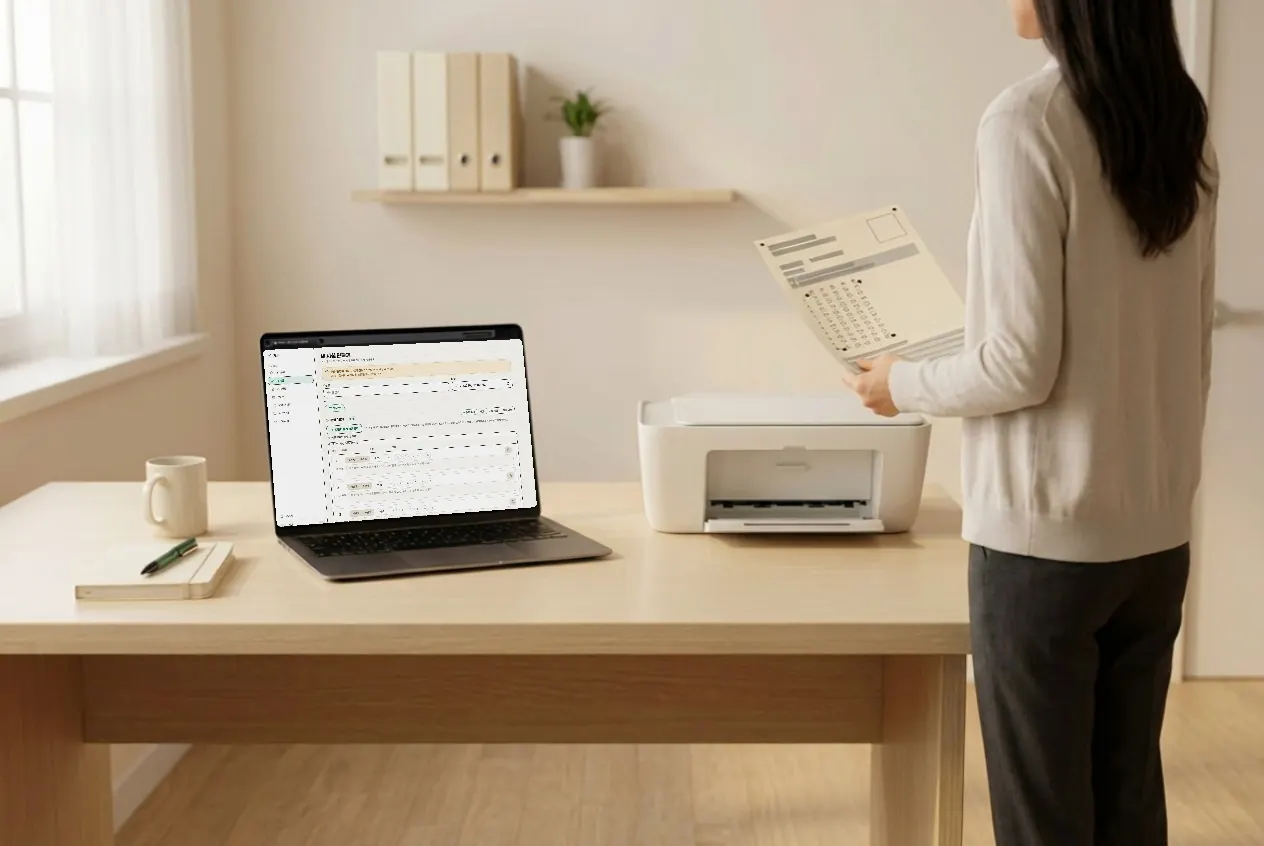
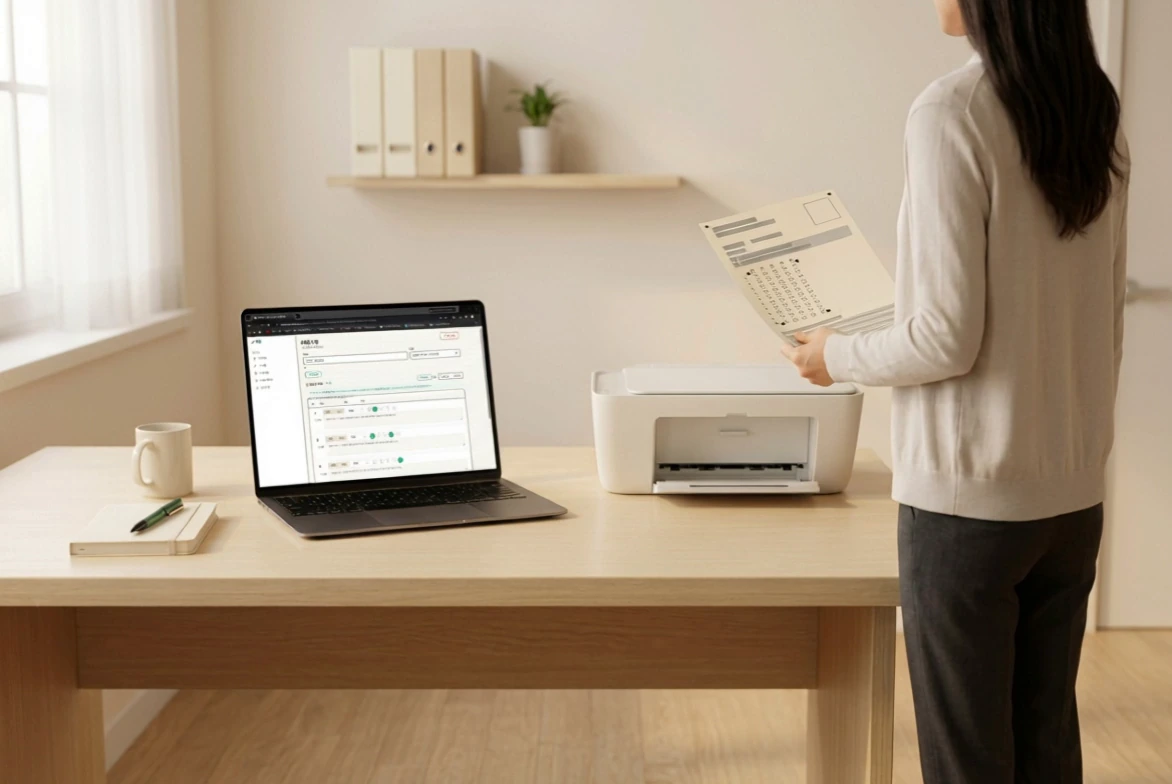
합성 전부 제거(사장님: 이미지·영상 안엔 아무것도 넣지 않는다 · 텍스트만) — 1 장면 프레임 원본 해상도·고화질(q92) · 2·4·5 장면 원본 이미지 · 마킹·폰 영상 겹판 삭제
Claude-Session: https://claude.ai/code/session_017AZFynALDViCu6x73EUba5

Changed region(s): [[0.1843, 0.398, 0.43, 0.6429]]

diff --git a/chaeck/index.html b/chaeck/index.html
@@ -224,9 +224,9 @@ html.nojs .story{height:auto}html.nojs .stage{position:static}html.nojs .step{po
     <div class="a-photo actor"><img src="/chaeck/img/ai/H1.webp" alt="학생이 QR 답안지를 폰으로 찍는 순간"></div>
     <div class="a-desk actor" aria-hidden="true"><img src="/chaeck/img/ai/H1.webp" alt=""></div>
     <div class="a-bg1 actor ph" aria-hidden="true"><img class="seq" data-seq="/chaeck/img/ai/seq1/f{i}.webp" data-seq-n="22" src="/chaeck/img/ai/seq1/f00.webp" alt=""></div>
-    <div class="a-bg2 actor ph" aria-hidden="true" style="--fill:0"><img src="/chaeck/img/ai/S2.webp" alt=""><svg class="ov" viewBox="0 0 1842 2700" style="transform:matrix3d(0.318268,0.0725958,0,1.98109e-05,-0.164956,0.169501,0,-7.50801e-05,0,0,1,0,557,114,0,1)"><circle class="f" style="--i:0" cx="529" cy="1157" r="19"/><circle class="f" style="--i:1" cx="410" cy="1241" r="19"/><circle class="f" style="--i:2" cx="649" cy="1325" r="19"/><circle class="f" style="--i:3" cx="290" cy="1409" r="19"/><circle class="f" style="--i:4" cx="767" cy="1493" r="19"/><circle class="f" style="--i:5" cx="529" cy="1576" r="19"/><circle class="f" style="--i:6" cx="410" cy="1660" r="19"/><circle class="f" style="--i:7" cx="649" cy="1744" r="19"/><circle class="f" style="--i:8" cx="767" cy="1828" r="19"/><circle class="f" style="--i:9" cx="290" cy="1912" r="19"/></svg></div>
+    <div class="a-bg2 actor ph" aria-hidden="true" style="--fill:0"><img src="/chaeck/img/ai/S2.webp" alt=""></div>
     <div class="a-bg4 actor ph" aria-hidden="true"><img src="/chaeck/img/ai/S4.webp" alt=""></div>
-    <div class="a-bg5 actor ph" aria-hidden="true"><img src="/chaeck/img/ai/S5.webp" alt=""><div class="vscr" data-scene-video="5" style="transform:matrix3d(0.204724,-0.0705318,0,-0.000141178,-0.0164509,0.253695,0,-0.000158468,0,0,1,0,678,225,0,1)"><video muted loop playsinline preload="metadata" poster="/chaeck/vid/parent-result.jpg"><source src="/chaeck/vid/parent-result.mp4" type="video/mp4"></video></div></div>
+    <div class="a-bg5 actor ph" aria-hidden="true"><img src="/chaeck/img/ai/S5.webp" alt=""></div>
     <div class="a-pc actor"><div class="scr"><img class="img1" src="/chaeck/img/teacher-exam-new.jpg" alt="강사 웹 — 시험 만들기"><img class="img2" src="/chaeck/img/teacher-results.jpg" alt="강사 웹 — 유형별·문항별 정답률"></div></div>
     <svg class="a-sheet actor" viewBox="0 0 320 500" aria-hidden="true" style="--fill:0;--grade:0">
   <rect x="1" y="1" width="318" height="498" rx="6" class="paper"/>
